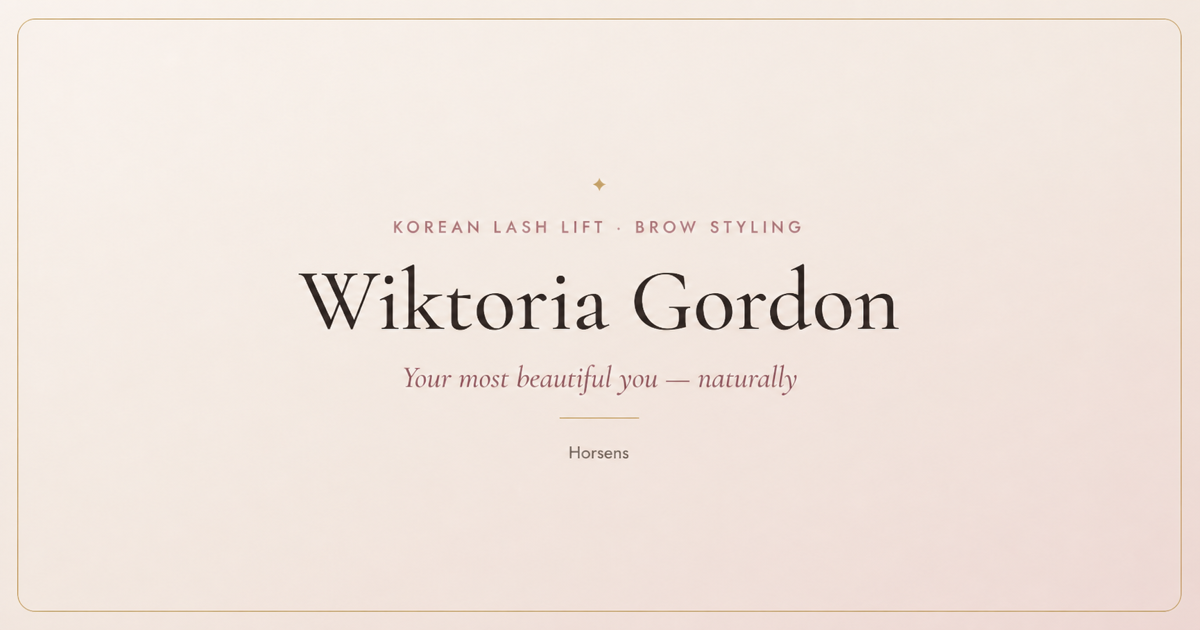
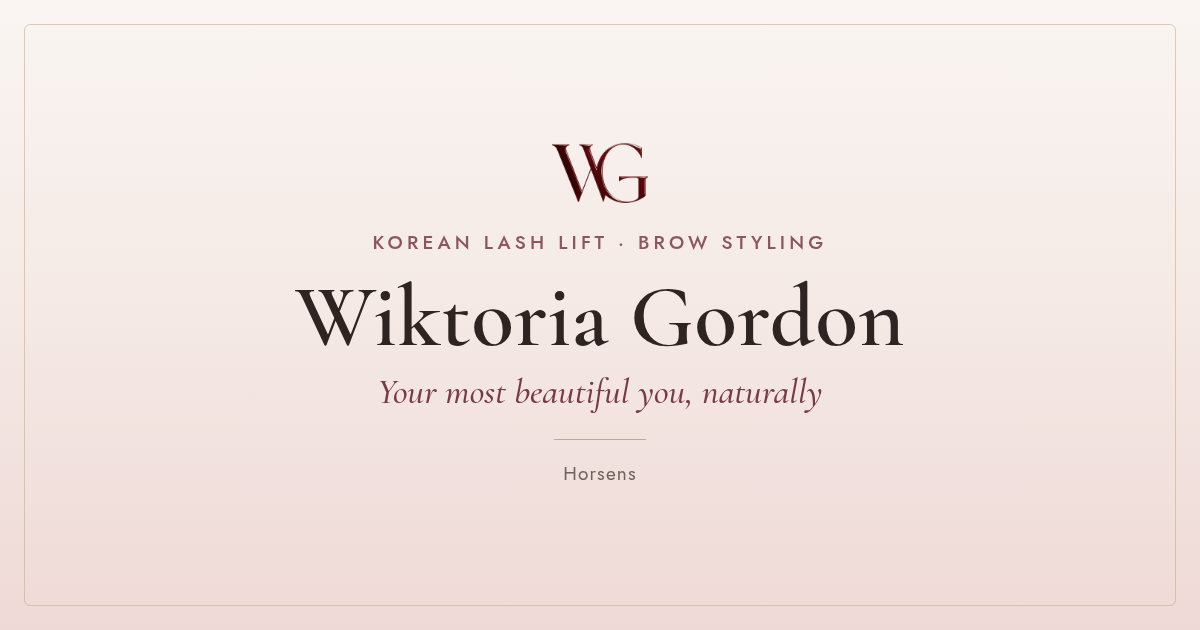
Byg link-forhåndsvisningerne om: væk med tankestregen, ind med logoet
Kortene sagde "Dit smukkeste jeg — helt naturligt" og "Your most beautiful
you — naturally". Det er det stykke tekst, der bliver set oftest af alt på
sitet, fordi det følger med hvert eneste link, der deles på Facebook,
Instagram og Messenger. Nu står der komma.

Teksten fandtes ingen steder i repoet, kun bagt ind i de to PNG-filer, så
der var ingen måde at rette den på uden at tegne kortene forfra. Derfor er
der nu en generator i scripts/og-card/.

Den tegner kortene i Chromium i stedet for i et billedbibliotek. Sitets
skrifter findes kun som woff2, som PIL ikke kan læse; ved at lade browseren
gøre arbejdet får kortene Cormorant Garamond og Jost præcis som på siden i
stedet for en tilnærmelse med en anden skrift.

Gradientens stop er samplet fra de gamle kort, så den nye version ikke ser
ud som et andet brand, når den står ved siden af den gamle i et feed.
Største afvigelse i baggrunden er 1 af 255. WG-monogrammet har afløst den
lille guldstjerne øverst.

Teksten står i make.sh, ikke i CMS'et. Kortene er billeder, der bygges på
forhånd, så et CMS-felt ville se ud som om det virkede uden at ændre noget.

Filerne blev 553 KB -> 58 KB.

diff --git a/scripts/og-card/card.html b/scripts/og-card/card.html
@@ -1,0 +1,52 @@
+<!doctype html>
+<html lang="__LANG__"><head><meta charset="utf-8">
+<style>
+  @font-face { font-family: Cormorant; src: url("fonts/cormorant-garamond-600-normal-latin.woff2") format("woff2"); font-weight: 600; font-style: normal; }
+  @font-face { font-family: Cormorant; src: url("fonts/cormorant-garamond-500-italic-latin.woff2") format("woff2"); font-weight: 500; font-style: italic; }
+  @font-face { font-family: Jost; src: url("fonts/jost-400-normal-latin.woff2") format("woff2"); font-weight: 400; font-style: normal; }
+  @font-face { font-family: Jost; src: url("fonts/jost-500-normal-latin.woff2") format("woff2"); font-weight: 500; font-style: normal; }
+  * { margin: 0; padding: 0; box-sizing: border-box; }
+  html, body { width: 1200px; height: 630px; }
+  body {
+    /* Lodret, ikke diagonalt. Stoppene er samplet fra det oprindelige kort,
+       så den nye version står side om side med den gamle i folks feeds
+       uden at se ud som to forskellige brands. */
+    background: linear-gradient(180deg, #FAF5F2 0%, #F4E9E5 50%, #EFD9D6 100%);
+    display: flex; align-items: center; justify-content: center;
+    font-kerning: normal; -webkit-font-smoothing: antialiased;
+  }
+  .frame {
+    position: absolute; inset: 24px;
+    border: 1px solid #C4AA85; border-radius: 6px; opacity: .55;
+  }
+  .stack { display: flex; flex-direction: column; align-items: center; text-align: center; }
+  .mark { height: 60px; width: auto; margin-bottom: 26px; }
+  .eyebrow {
+    font-family: Jost, sans-serif; font-weight: 500; font-size: 19px;
+    letter-spacing: .22em; text-transform: uppercase; color: #8C5560;
+  }
+  .name {
+    font-family: Cormorant, Georgia, serif; font-weight: 600; font-size: 88px;
+    line-height: 1.04; color: #2E2523; margin-top: 16px; letter-spacing: .005em;
+  }
+  .tagline {
+    font-family: Cormorant, Georgia, serif; font-weight: 500; font-style: italic;
+    font-size: 36px; color: #7A3A44; margin-top: 6px;
+  }
+  .rule { width: 92px; height: 1px; background: #C4AA85; margin: 26px 0 20px; }
+  .place {
+    font-family: Jost, sans-serif; font-weight: 400; font-size: 19px;
+    letter-spacing: .06em; color: #6F615C;
+  }
+</style></head>
+<body>
+  <div class="frame"></div>
+  <div class="stack">
+    <img class="mark" src="img/logo-wg.png" alt="">
+    <p class="eyebrow">__EYEBROW__</p>
+    <h1 class="name">__NAME__</h1>
+    <p class="tagline">__TAGLINE__</p>
+    <div class="rule"></div>
+    <p class="place">__PLACE__</p>
+  </div>
+</body></html>
